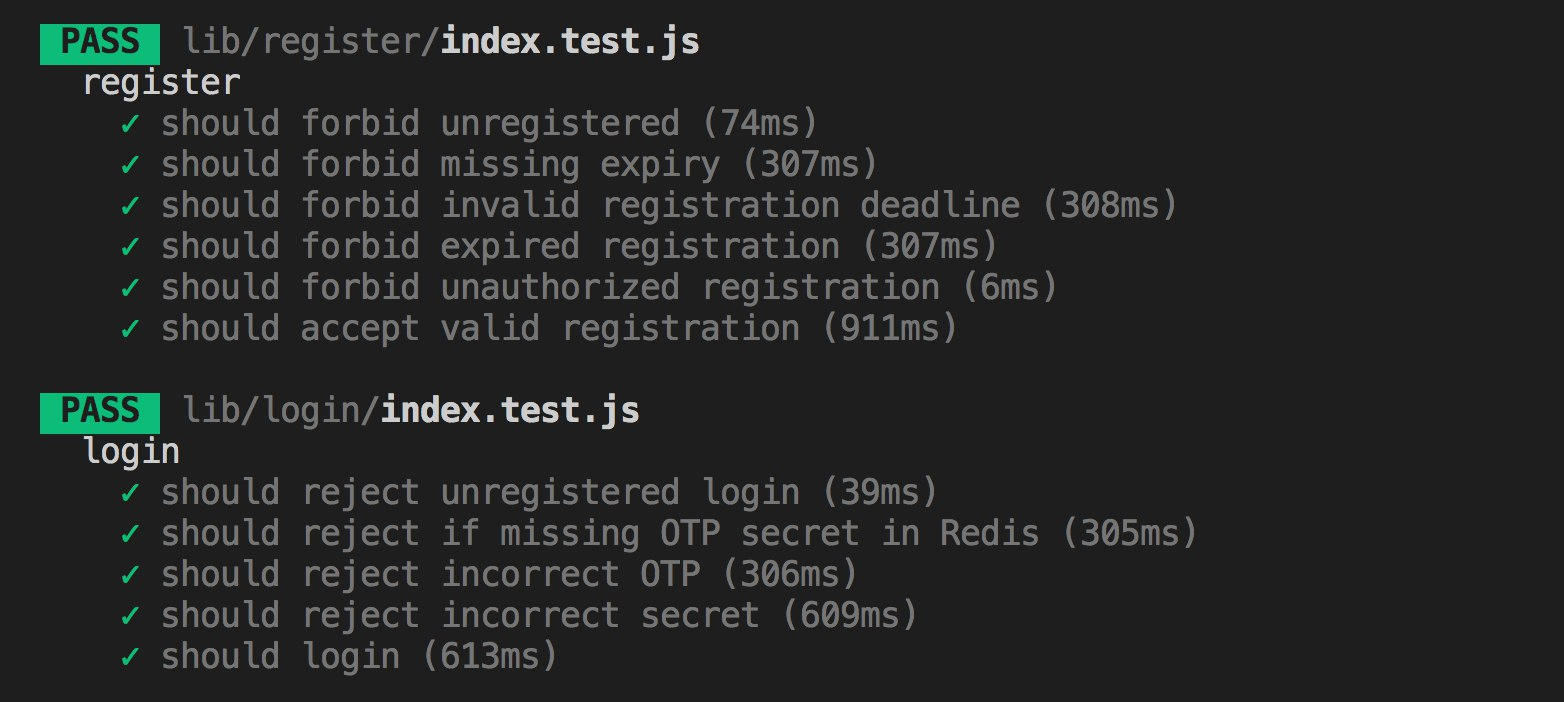
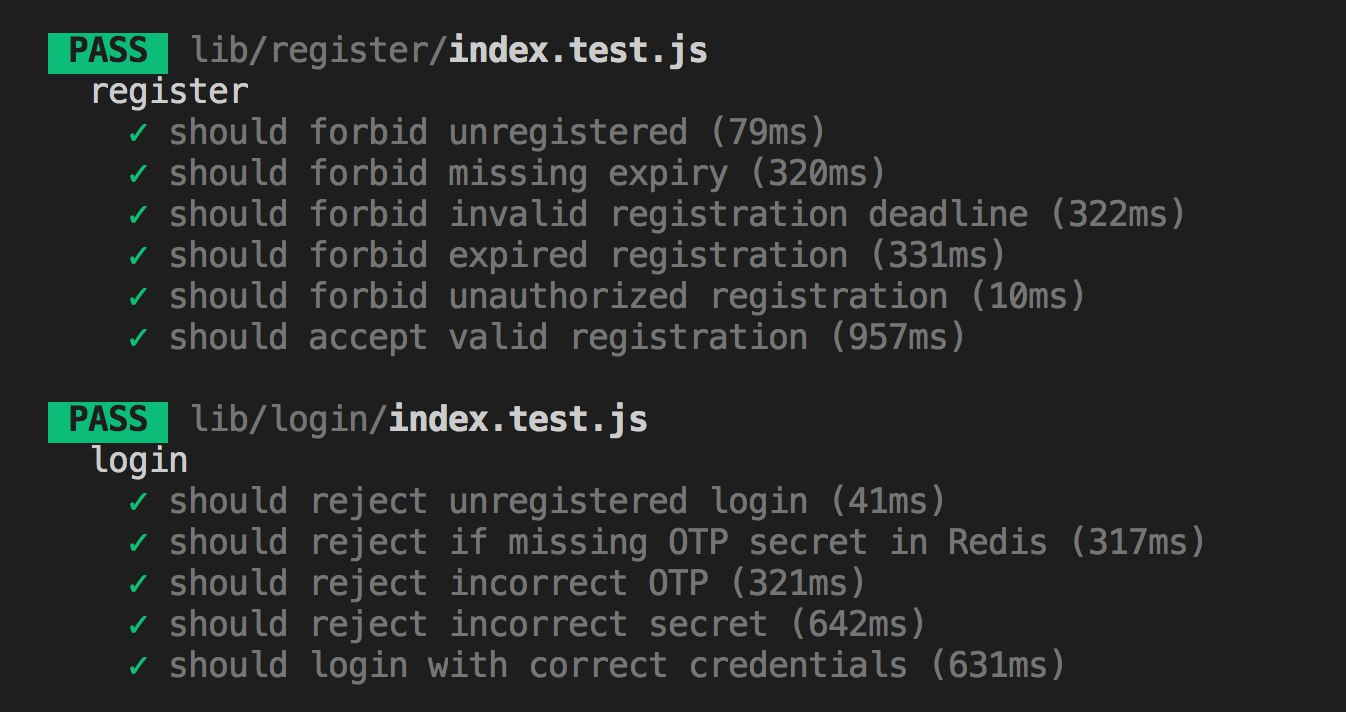
Update testing screenshot in readme

Changed region(s): [[0.0, 0.0299, 0.8737, 0.5085], [0.0, 0.5385, 0.9049, 0.9573]]

diff --git a/lib/login/index.test.js b/lib/login/index.test.js
@@ -148,7 +148,7 @@ describe('login', () => {
     })
   })
 
-  it('should login', async () => {
+  it('should login with correct credentials', async () => {
     const data = {
       client: state.clientId,
       otp: otplib.authenticator.generate(state.otpSecret),
